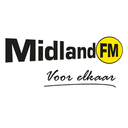
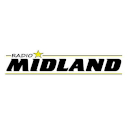
Bug fixes en zenders nagelopen

Changed region(s): [[0.0312, 0.2812, 0.9688, 0.6875]]

diff --git a/qml/Main.qml b/qml/Main.qml
@@ -185,9 +185,9 @@ MainView {
 
     Settings {
       id: settings
-      property string source: ""
-      property string image: ""
-      property string text: ""
+      property string source: "http://icecast.omroep.nl/radio1-bb-mp3"
+      property string image: "img/nporadio1.jpg"
+      property string text: "NPO Radio 1"
       property string tutorialRegionaal: "true"
       property string gevisible: "false"
       property string utvisible: "false"
@@ -342,7 +342,7 @@ MainView {
               naam: "Radio 10"
               subText: "De grootste hits aller tijden!"
               logo: "img/radio10.jpg"
-              bron: "http://19993.live.streamtheworld.com/RADIO10.mp3?dist=tunein"
+              bron: "http://stream.radio10.nl/radio10"
             }
 
             Zender {
@@ -356,7 +356,7 @@ MainView {
               naam: "100% NL"
               subText: "De beste muziek van Nederland"
               logo: "img/100pnl.jpg"
-              bron: "https://20853.live.streamtheworld.com/100PNL_MP3_SC?dist=tunein"
+              bron: "https://stream.100p.nl/100pctnl.mp3"
             }
 
             Zender {
@@ -419,7 +419,7 @@ MainView {
               naam: "BNR Nieuwsradio"
               subText: "#IkhoorbijBNR"
               logo: "img/bnr.jpg"
-              bron: "http://21283.live.streamtheworld.com/BNR_NIEUWSRADIO.mp3?DIST=TuneIn&TGT=TuneIn"
+              bron: "https://stream.bnr.nl/bnr_mp3_128_20"
             }
 
             Zender {
@@ -433,7 +433,7 @@ MainView {
               naam: "Soul Radio"
               subText: "Soul muziek"
               logo: "img/soulradio.jpg"
-              bron: "http://21233.live.streamtheworld.com/SOULRADIO.mp3"
+              bron: "https://playerservices.streamtheworld.com/api/livestream-redirect/SOULRADIO.mp3"
             }
 
             Zender {
@@ -449,7 +449,7 @@ MainView {
               naam: "KINK"
               subText: "No Alternative"
               logo: "img/kink.jpg"
-              bron: "https://21293.live.streamtheworld.com/KINK.mp3"
+              bron: "https://playerservices.streamtheworld.com/api/livestream-redirect/KINK.mp3"
             }
 
             Zender {
@@ -1042,7 +1042,7 @@ MainView {
               naam: "Omroep Almere Radio"
               subText: "Hét nieuwsplatform voor Almere en Omstreken"
               logo: "img/omroepalmereradio.jpg"
-              bron: "https://players.rcast.net/stream/65615.mp3"
+              bron: "https://stream.rcast.net/65615"
               visible: {
                 if (settings.flevisible == "false") {
                   false
@@ -1261,7 +1261,7 @@ MainView {
             }
 
             Zender {
-              naam: "Midland FM"
+              naam: "Radio Midland"
               subText: "Voor elkaar"
               logo: "img/midlandfm.jpg"
               bron: "https://caster04.streampakket.com/proxy/8216/stream;"
@@ -1384,7 +1384,7 @@ MainView {
               naam: "MeerRadio"
               subText: "Lokale omroep an Haarlemmermeer"
               logo: "img/meerradio.jpg"
-              bron: "http://www.meerradio.nl:8000/;stream.mp3"
+              bron: "https://olon.az.icecast.ebsd.ericsson.net/meer_radio"
               visible: {
                 if (settings.nohovisible == "false") {
                   false
@@ -2051,9 +2051,6 @@ MainView {
 
       Audio {
         id: player
-
-        // Source is blank, it gets set by the 'zender' component
-        source: " "
       }
 
       // Put labels in a 'box'
@@ -2155,6 +2152,10 @@ MainView {
         Rectangle {
           z: 4
           id: buffer
+
+          width: units.gu(3)
+          height: width
+
           visible: {
             if (player.playbackState == true) {
               if (player.bufferProgress < 0.20) {
@@ -2169,15 +2170,15 @@ MainView {
             }
           }
 
-          anchors.fill: parent
+          anchors {
+            centerIn: playerIcon
+          }
+
           color: theme.palette.normal.background
 
           ActivityIndicator {
-            width: units.gu(3.2)
-            height: width
-
             running: true
-            anchors.centerIn: parent
+            anchors.fill: parent
           }
         }
       }
@@ -2256,22 +2257,21 @@ MainView {
                 if (settings.slot1source == "") {
                 }
                 else {
-                  player.stop()
                   player.source = settings.slot1source
                   player.play()
                   playerText.text = settings.slot1text
                   bottomIMG.source = settings.slot1img
-                  settings.source = player.source
-                  settings.text = playerText.text
-                  settings.image = bottomIMG.source
+                  settings.source = settings.slot1source
+                  settings.text = settings.slot1text
+                  settings.image = settings.slot1img
                   bottomEdge.collapse()
                 }
               }
               onPressAndHold: {
-                slot1img.source = bottomIMG.source
-                settings.slot1img = bottomIMG.source
-                settings.slot1text = playerText.text
-                settings.slot1source = player.source
+                slot1img.source = settings.image
+                settings.slot1img = settings.image
+                settings.slot1text = settings.text
+                settings.slot1source = settings.source
               }
             }
 
@@ -2309,22 +2309,21 @@ MainView {
                 if (settings.slot2source == "") {
                 }
                 else {
-                  player.stop()
                   player.source = settings.slot2source
                   player.play()
                   playerText.text = settings.slot2text
                   bottomIMG.source = settings.slot2img
-                  settings.source = player.source
-                  settings.text = playerText.text
-                  settings.image = bottomIMG.source
+                  settings.source = settings.slot2source
+                  settings.text = settings.slot2text
+                  settings.image = settings.slot2img
                   bottomEdge.collapse()
                 }
               }
               onPressAndHold: {
-                slot2img.source = bottomIMG.source
-                settings.slot2img = bottomIMG.source
-                settings.slot2text = playerText.text
-                settings.slot2source = player.source
+                slot2img.source = settings.image
+                settings.slot2img = settings.image
+                settings.slot2text = settings.text
+                settings.slot2source = settings.source
               }
             }
 
@@ -2362,22 +2361,21 @@ MainView {
                 if (settings.slot3source == "") {
                 }
                 else {
-                  player.stop()
                   player.source = settings.slot3source
                   player.play()
                   playerText.text = settings.slot3text
                   bottomIMG.source = settings.slot3img
-                  settings.source = player.source
-                  settings.text = playerText.text
-                  settings.image = bottomIMG.source
+                  settings.source = settings.slot3source
+                  settings.text = settings.slot3text
+                  settings.image = settings.slot3img
                   bottomEdge.collapse()
                 }
               }
               onPressAndHold: {
-                slot3img.source = bottomIMG.source
-                settings.slot3img = bottomIMG.source
-                settings.slot3text = playerText.text
-                settings.slot3source = player.source
+                slot3img.source = settings.image
+                settings.slot3img = settings.image
+                settings.slot3text = settings.text
+                settings.slot3source = settings.source
               }
             }
 
@@ -2415,22 +2413,21 @@ MainView {
                 if (settings.slot4source == "") {
                 }
                 else {
-                  player.stop()
                   player.source = settings.slot4source
                   player.play()
                   playerText.text = settings.slot4text
                   bottomIMG.source = settings.slot4img
-                  settings.source = player.source
-                  settings.text = playerText.text
-                  settings.image = bottomIMG.source
+                  settings.source = settings.slot4source
+                  settings.text = settings.slot4text
+                  settings.image = settings.slot4img
                   bottomEdge.collapse()
                 }
               }
               onPressAndHold: {
-                slot4img.source = bottomIMG.source
-                settings.slot4img = bottomIMG.source
-                settings.slot4text = playerText.text
-                settings.slot4source = player.source
+                slot4img.source = settings.image
+                settings.slot4img = settings.image
+                settings.slot4text = settings.text
+                settings.slot4source = settings.source
               }
             }
 
@@ -2682,7 +2679,7 @@ MainView {
       id: dialogue4
       title: "Over Radio NL"
       Text {
-        text: '<br><b>Broncode:</b> <a href="https://github.com/SanderKlootwijk/RadioNL">GitHub</a><br><b>Licentie:</b> <a href="https://tldrlegal.com/license/mit-license">MIT Licentie</a><br><br> <br>© 2018-2020 Sander Klootwijk'
+        text: '<br><b>Broncode:</b> <a href="https://github.com/SanderKlootwijk/RadioNL">GitHub</a><br><b>Licentie:</b> <a href="https://tldrlegal.com/license/mit-license">MIT Licentie</a><br><br> <br>© 2018-2022 Sander Klootwijk'
         color: theme.palette.normal.baseText
         horizontalAlignment: Text.AlignHCenter
         onLinkActivated: Qt.openUrlExternally(link)

diff --git a/qml/Zender.qml b/qml/Zender.qml
@@ -6,7 +6,7 @@ ListItem {
 
   height: units.gu(9)
 
-  property alias logo: logo.source
+  property string logo
   property alias naam: naam.text
   property alias subText: subText.text
   property alias bron: bron.text
@@ -25,7 +25,7 @@ ListItem {
 
     // Put radio station logo in UbuntuShape
     source: Image {
-      id: logo
+      source: logo
     }
 
     aspect: UbuntuShape.Inset
@@ -101,30 +101,22 @@ ListItem {
     MouseArea {
       anchors.fill: parent
       onClicked: {
-        if (player.playbackState == true) {
-          if (playerText.text == naam.text) {
+        if (playerText.text == naam.text) {
+          if (player.playbackState == true) {
             player.stop()
           }
           else {
-            player.stop()
-            player.source = bron.text
-            settings.source = bron.text
             player.play()
-            playerText.text = naam.text
-            settings.text = naam.text
-            bottomIMG.source = logo.source
-            settings.image = logo.source
           }
         }
         else {
-          player.stop()
           player.source = bron.text
           settings.source = bron.text
           player.play()
           playerText.text = naam.text
           settings.text = naam.text
-          bottomIMG.source = logo.source
-          settings.image = logo.source
+          bottomIMG.source = logo
+          settings.image = logo
         }
       }
     }
